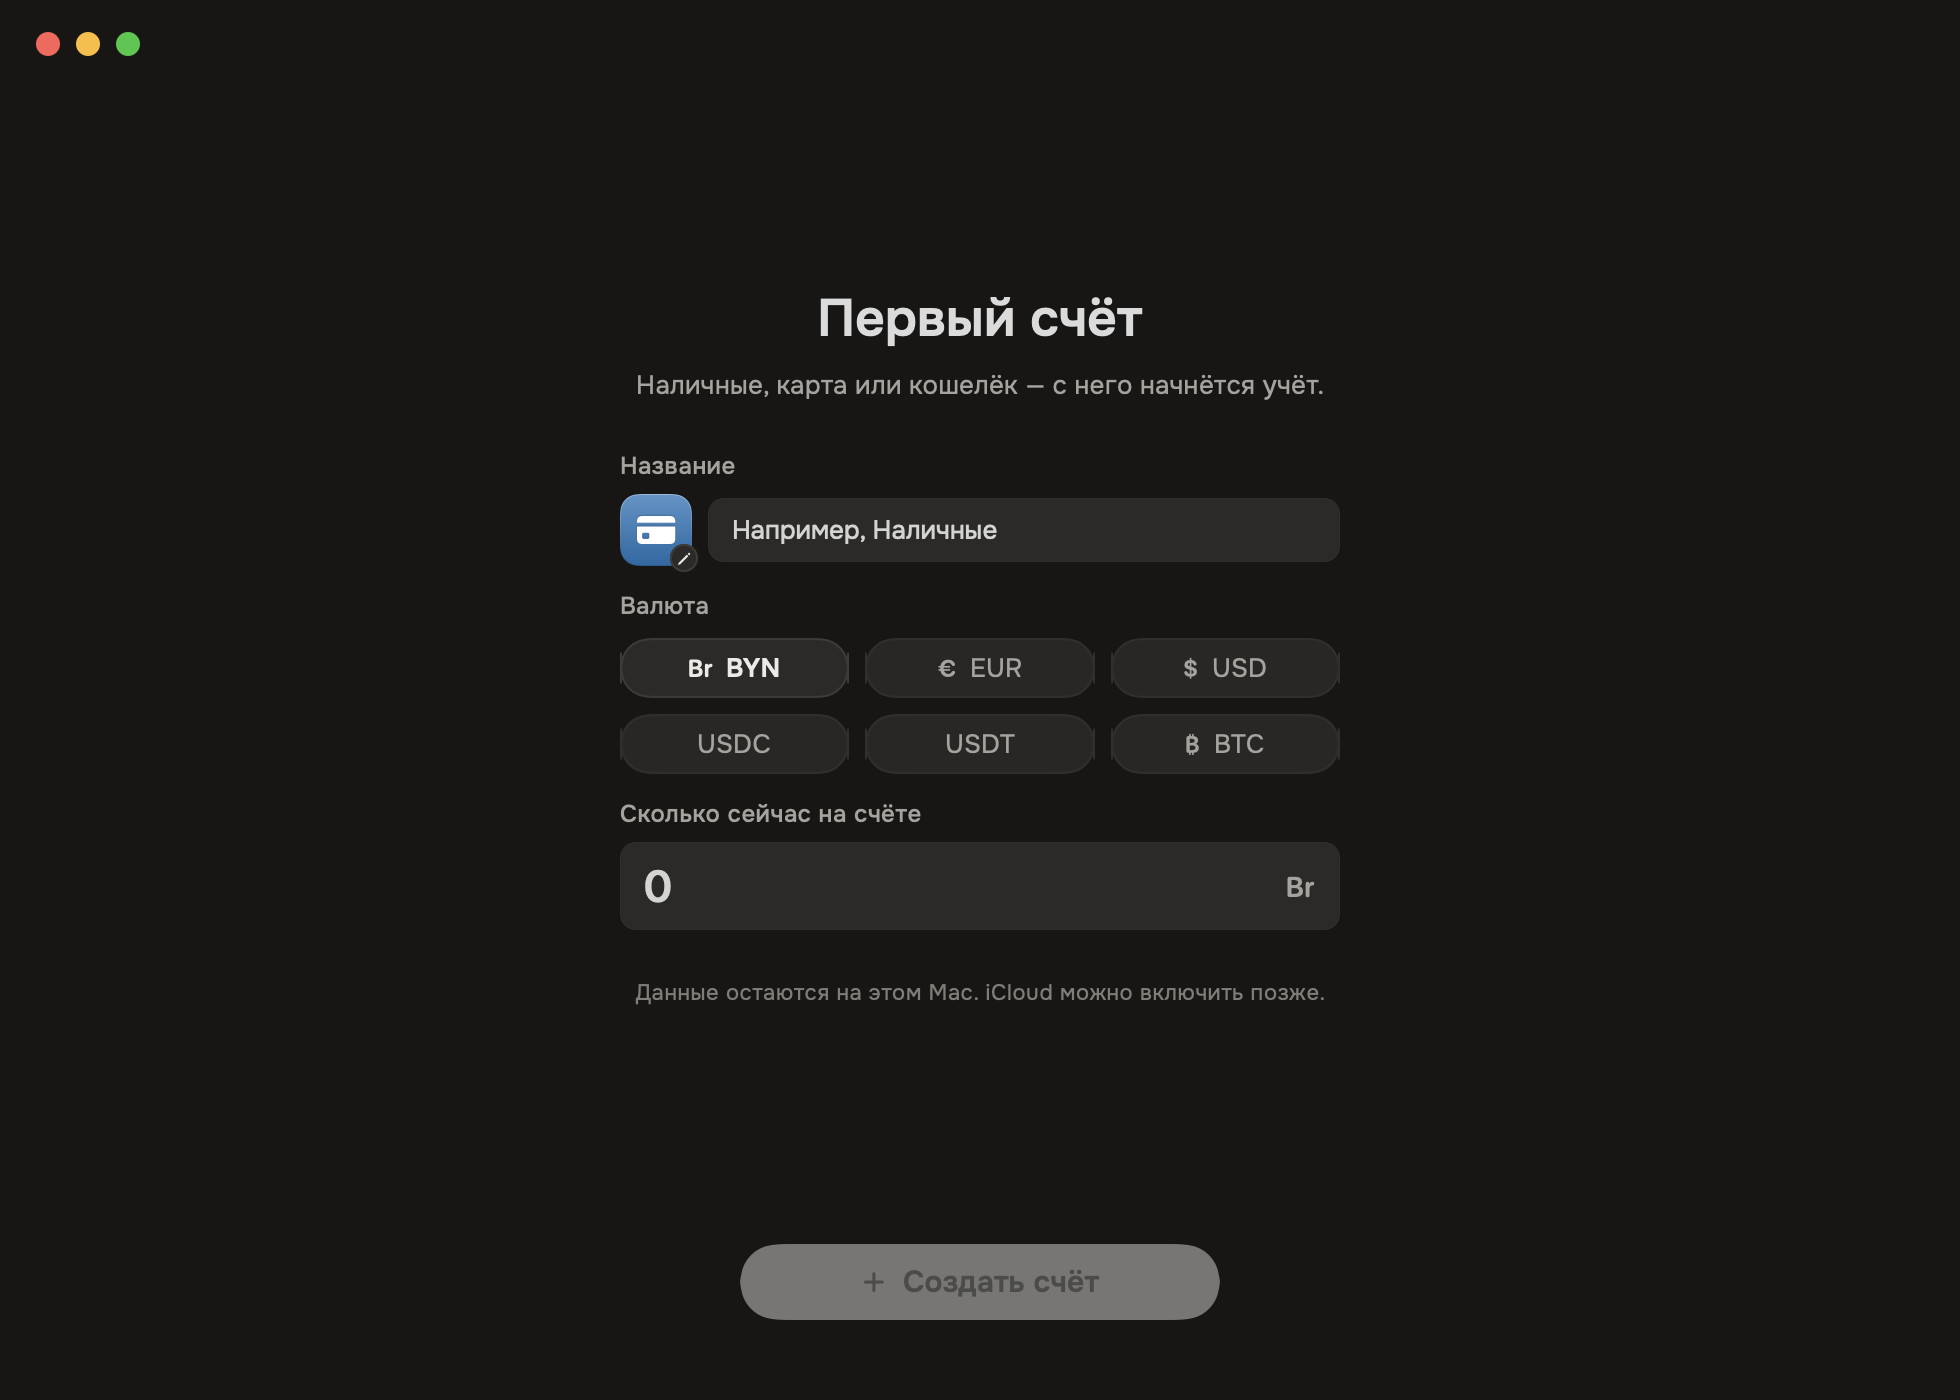
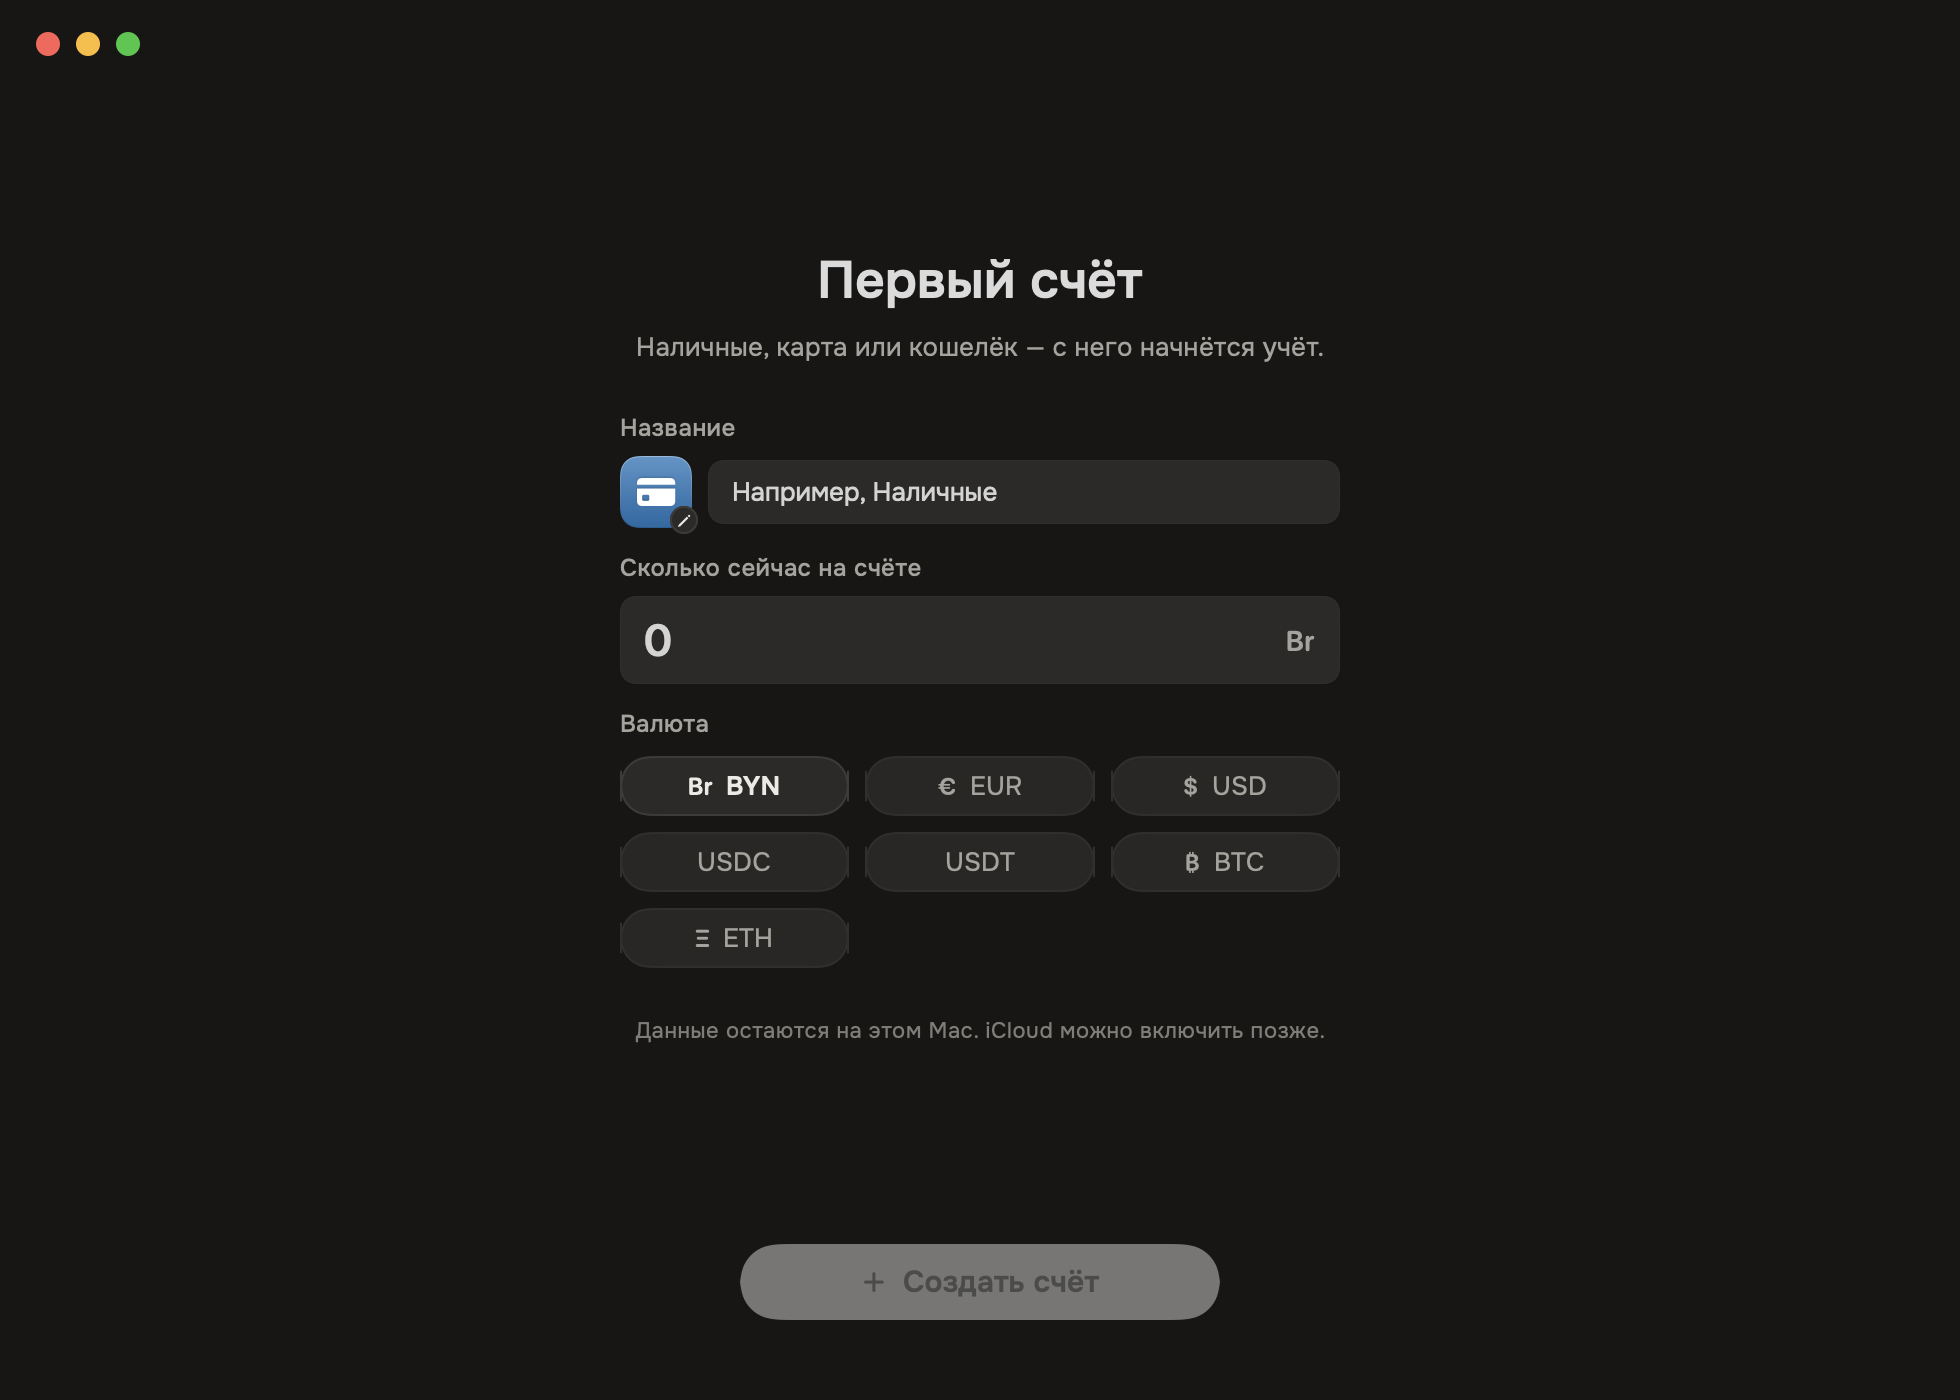
fix(onboarding): поставить сумму перед валютой

diff --git a/Montra/Features/Onboarding/OnboardingFlowView.swift b/Montra/Features/Onboarding/OnboardingFlowView.swift
@@ -302,18 +302,6 @@ struct OnboardingFlowView: View {
                     }
                 }
 
-                VStack(alignment: .leading, spacing: AppStyle.Spacing.xSmall) {
-                    FieldLabel(title: String(localized: "common.currency"))
-                    LazyVGrid(
-                        columns: Array(repeating: GridItem(.flexible(), spacing: AppStyle.Spacing.xSmall), count: 3),
-                        spacing: AppStyle.Spacing.xSmall
-                    ) {
-                        ForEach(Currency.allCases) { item in
-                            currencyChip(item)
-                        }
-                    }
-                }
-
                 FormField(title: String(localized: "common.current_balance")) {
                     HStack(spacing: AppStyle.Spacing.small) {
                         TextField("0", text: $accountAmountText)
@@ -345,6 +333,18 @@ struct OnboardingFlowView: View {
                     .overlay {
                         RoundedRectangle(cornerRadius: AppStyle.Radius.md, style: .continuous)
                             .strokeBorder(AppColors.borderSubtle, lineWidth: 0.5)
+                    }
+                }
+
+                VStack(alignment: .leading, spacing: AppStyle.Spacing.xSmall) {
+                    FieldLabel(title: String(localized: "common.currency"))
+                    LazyVGrid(
+                        columns: Array(repeating: GridItem(.flexible(), spacing: AppStyle.Spacing.xSmall), count: 3),
+                        spacing: AppStyle.Spacing.xSmall
+                    ) {
+                        ForEach(Currency.allCases) { item in
+                            currencyChip(item)
+                        }
                     }
                 }
             }

diff --git a/Docs/Feature-Inventory.md b/Docs/Feature-Inventory.md
@@ -96,7 +96,7 @@ APP=~/Library/Developer/Xcode/DerivedData/Montra-*/Build/Products/Debug/Montra.a
 | ID | Фича | Ключевые проверки | Тип |
 |---|---|---|---|
 | ONB-01 | Первый запуск | пустое хранилище + `!hasCompletedOnboarding` → welcome без сайдбара; счета/операции не создаются сами | persistence/ui |
-| ONB-02 | Шаг счёта | имя обязательно, сумма ≥0, любая из валют, иконка/цвет; «Создать счёт» создаёт **настоящий** счёт, ставит `primaryCurrency`, ведёт к категориям; счёт всегда обычный — накопительный в знакомстве не предлагается (его заводят в листе счёта) | ui |
+| ONB-02 | Шаг счёта | имя обязательно, сумма ≥0, выбор валюты под полем суммы, иконка/цвет; «Создать счёт» создаёт **настоящий** счёт, ставит `primaryCurrency`, ведёт к категориям; счёт всегда обычный — накопительный в знакомстве не предлагается (его заводят в листе счёта) | ui |
 | ONB-03 | Стиль счёта | popover иконок/цветов; выбранное отражается в превью; отмена не ломает форму | ui |
 | ONB-03b | Категории | сетки расходов и доходов, по умолчанию отмечены только Жильё, Еда и Зарплата; галочки; «Продолжить» создаёт выбранные, «Пропустить» — только «Прочее»; повтор не дублирует | ui/unit |
 | ONB-04 | Первый расход | сумма >0, категория, счёт; категория выбрана заранее («Еда» или первая созданная, после пропуска — «Прочее»); «Добавить расход» создаёт операцию; «Пропустить» ведёт к финалу без операции | ui |

diff --git a/README.md b/README.md
@@ -37,6 +37,7 @@
 |---|---|
 | ![Первый расход](Docs/screenshots/onboarding-expense.png) | ![Готово](Docs/screenshots/onboarding-done.png) |
 
+На шаге «Первый счёт» выбор валюты расположен под полем суммы.
 Поток открывается на чистом хранилище. Попробовать его, не трогая данные:
 `open -n -a Montra.app --args -preview-onboarding`.
 
